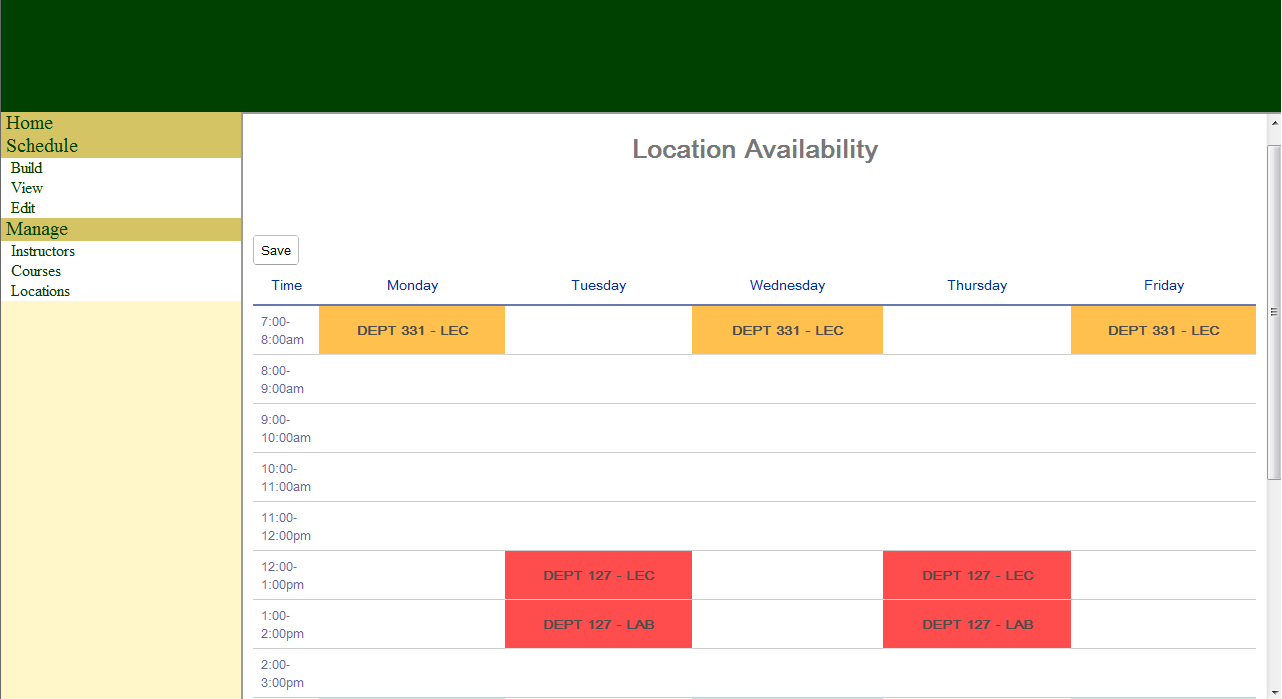
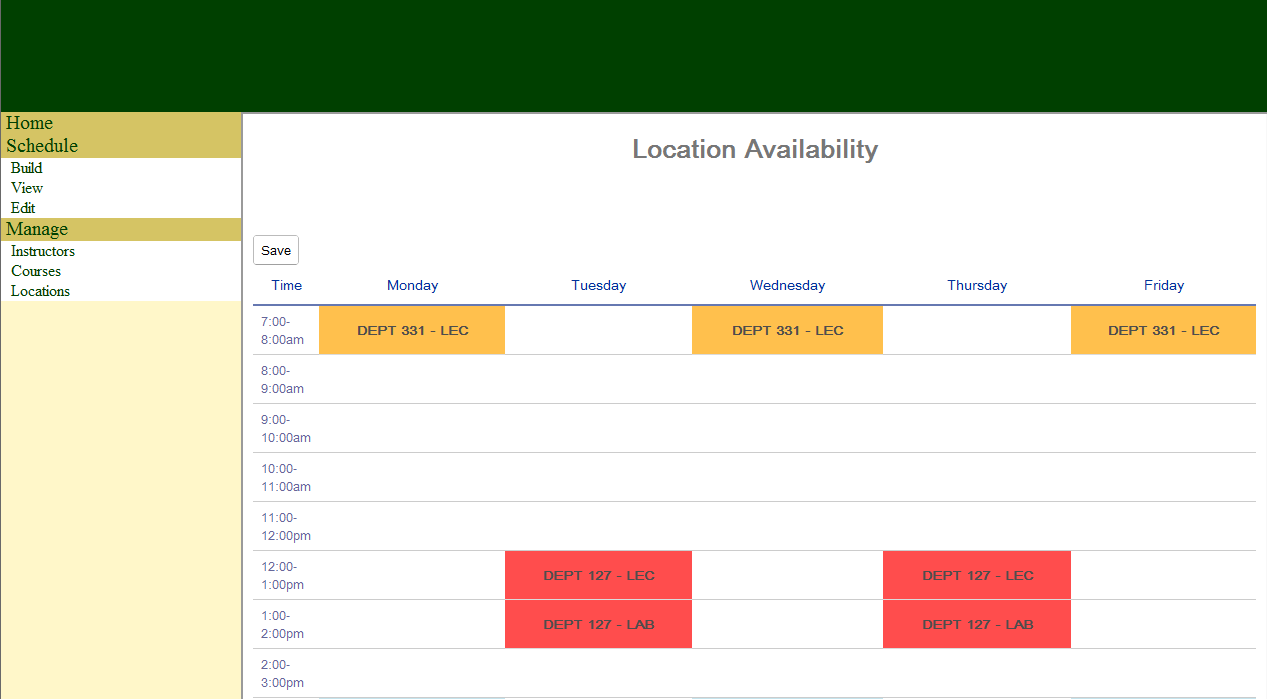
git-svn-id: svn+ssh://scheduler.csc.calpoly.edu/repo@513 13b268f7-8392-4c9d-bc7d-1e80a86bc2f9

diff --git a/requirements/walkthru/room-edit.html b/requirements/walkthru/room-edit.html
@@ -5,7 +5,7 @@
 <body>
    <div id="blurb">
       <p>
-         <h2>Edit Location</h2>
+         <h2>Edit Locations</h2>
          <div id="links">
             <a href="room-add.html">&lt;&lt;&nbsp;&nbsp;Prev</a> - <a href="index.html">Top</a> - <a href="room-availability.html">Next&nbsp;&nbsp;&gt;&gt;</a>
          </div>
@@ -16,7 +16,7 @@
       </p>
    </div>
    <div id="screenshot">
-      <span></span><img src="../images/database-room-edit.png" />
+      <img src="../Images/database-room-edit.png" />
    </div>
 </body>
 </html>

diff --git a/requirements/walkthru/room-add.html b/requirements/walkthru/room-add.html
@@ -5,7 +5,7 @@
 <body>
    <div id="blurb">
       <p>
-         <h2>Add Location</h2>
+         <h2>Add Locations</h2>
          <div id="links">
             <a href="room-manage.html">&lt;&lt;&nbsp;&nbsp;Prev</a> - <a href="index.html">Top</a> - <a href="room-edit.html">Next&nbsp;&nbsp;&gt;&gt;</a>
          </div>
@@ -15,7 +15,7 @@
       </p>
    </div>
    <div id="screenshot">
-      <span></span><img src="../images/database-room-add.png" />
+      <img src="../Images/database-room-add.png" />
    </div>
 </body>
 </html>

diff --git a/requirements/walkthru/room-availability.html b/requirements/walkthru/room-availability.html
@@ -15,7 +15,7 @@
       </p>
    </div>
    <div id="screenshot">
-      <span></span><img src="../images/database-RoomAvailability.png" />
+      <img src="../Images/database-RoomAvailability.png" />
    </div>
 </body>
 </html>

diff --git a/requirements/walkthru/room-manage.html b/requirements/walkthru/room-manage.html
@@ -15,7 +15,7 @@
       </p>
    </div>
    <div id="screenshot">
-      <span></span><img src="../images/database-room-manage.png" />
+      <img src="../Images/database-room-manage.png" />
    </div>
 </body>
 </html>
